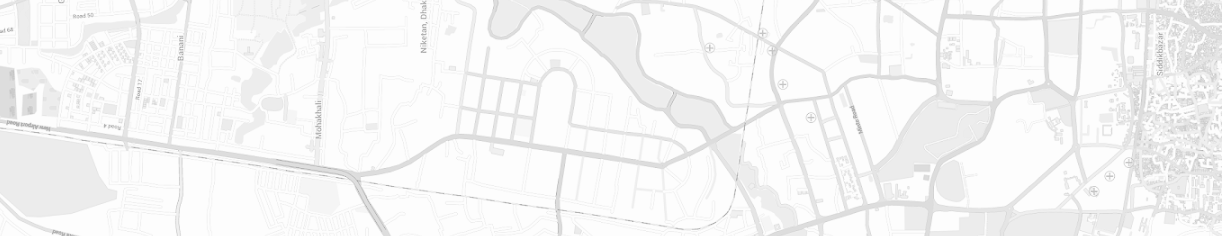
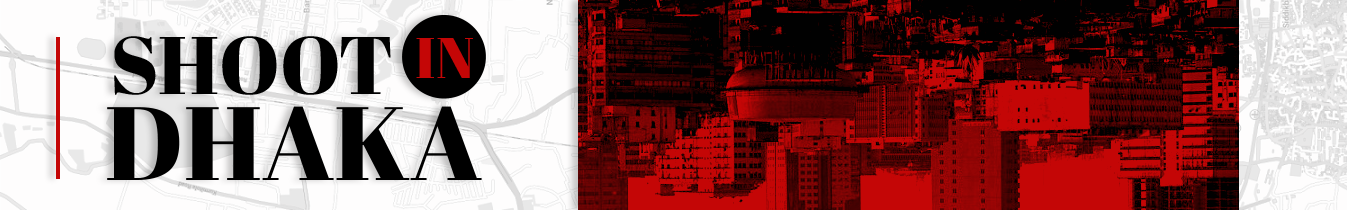
contact added

diff --git a/client/app/styles/custom.css b/client/app/styles/custom.css
@@ -76,8 +76,14 @@
 .w-45 {
   width: 45%
 }
+.w-65 {
+  width: 65%
+}
 .w-40 {
   width: 40%
+}
+.w-30 {
+  width: 30%
 }
 .w-20 {
   width: 20%
@@ -164,6 +170,9 @@
 .h-210 {
   height: 210px;
 }
+.h-215 {
+  height: 215px;
+}
 .h-136 {
   height: 136px;
 }
@@ -177,10 +186,20 @@
   vertical-align: middle;
 }
 .header-bg {
-  background: url(../images/header_bg.png) no-repeat center center
+  background: url(../images/header_bg.png);
+  background-size: contain;
+  background-repeat: no-repeat;
+  width: 100%;
+  height: 0;
+  padding-top: 19.31%;
 }
 .footer-bg {
-  background: url(../images/footer_bg.png) no-repeat center center
+  background: url(../images/footer_bg.png);
+  background-size: contain;
+  background-repeat: no-repeat;
+  width: 100%;
+  height: 0;
+  padding-top: 15.60%;
 }
 .m-0-auto {
   margin: 0 auto;

diff --git a/client/app/components/dashboard/contact/contact.html b/client/app/components/dashboard/contact/contact.html
@@ -1,7 +1,14 @@
+
 <section class="main-products">
-
-    <div class="col-6 t-a-c" style="height: 300px">
-        coming soon...
+    <div class="col-6 t-a-c">
+        <iframe 
+            src="https://www.facebook.com/plugins/page.php?href=https%3A%2F%2Fwww.facebook.com%2Fshootindhaka&tabs=messages&width=340&height=300&small_header=false&adapt_container_width=true&hide_cover=false&show_facepile=true&appId"
+            width="340"
+            height="300"
+            style="border:none;overflow:hidden"
+            scrolling="no"
+            frameborder="0"
+            allowTransparency="true"
+        ></iframe>
     </div>
-
 </section>

diff --git a/client/app/components/header/header.html b/client/app/components/header/header.html
@@ -1,23 +1,9 @@
+
+
 <div class="headerwrap">
-
   <div class="iewrap">
-
     <div class="main">
-
-      <div class="col-6 header-bg">
-
-        <div ng-click="vm.toHome()" class="w-70 d-i-b">
-          <img class="c-p p-t-12 p-l-12 p-b-12" ng-src="app/images/header_logo.png">
-        </div>
-
-        <div class="w-14 d-i-b f-r">
-          <a target="_blank" rel="social" href="https://www.facebook.com/shootindhaka"><img ng-src="app/images/fb_logo.png"></a>
-        </div>
-
-      </div>
-
+      <div class="col-6 header-bg"></div>
     </div>
-
   </div>
-
 </div>

diff --git a/client/index.html b/client/index.html
@@ -7,7 +7,7 @@
     <meta name="mobile-web-app-capable" content="yes">
     <meta name="apple-mobile-web-app-capable" content="yes">
     <meta name="apple-mobile-web-app-status-bar-style" content="black">
-    <meta name="description" content="Film equipment rental">
+    <meta name="description" content="Film equipment Rental">
     <link rel="icon" href="./app/images/favicon.ico?v=0">
     <!--<base href="/">-->
     <style type="text/css">

diff --git a/client/app/components/footer/footer.html b/client/app/components/footer/footer.html
@@ -1,6 +1,3 @@
 
-<div class="col-6 footer-bg h-136">
-  <div class="col-1-2 h-136 m-0-auto">
-    <img class="p-t-40" ng-src="app/images/footer_logo.png">
-  </div>
-</div>
+
+<div class="col-6 footer-bg"></div>

diff --git a/client/app/components/common/productComp/productComp.html b/client/app/components/common/productComp/productComp.html
@@ -1,3 +1,4 @@
+
 <section class="product">
 
   <div class="col-6">
